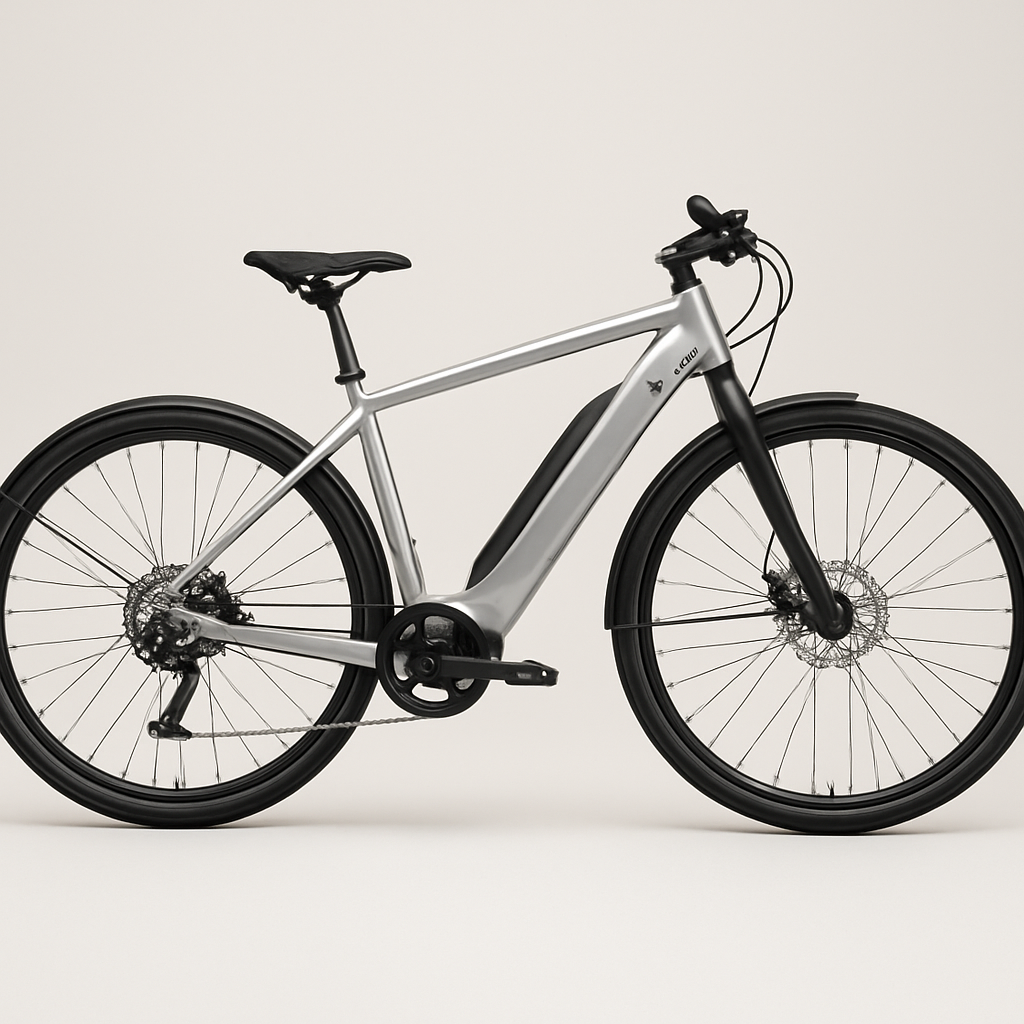
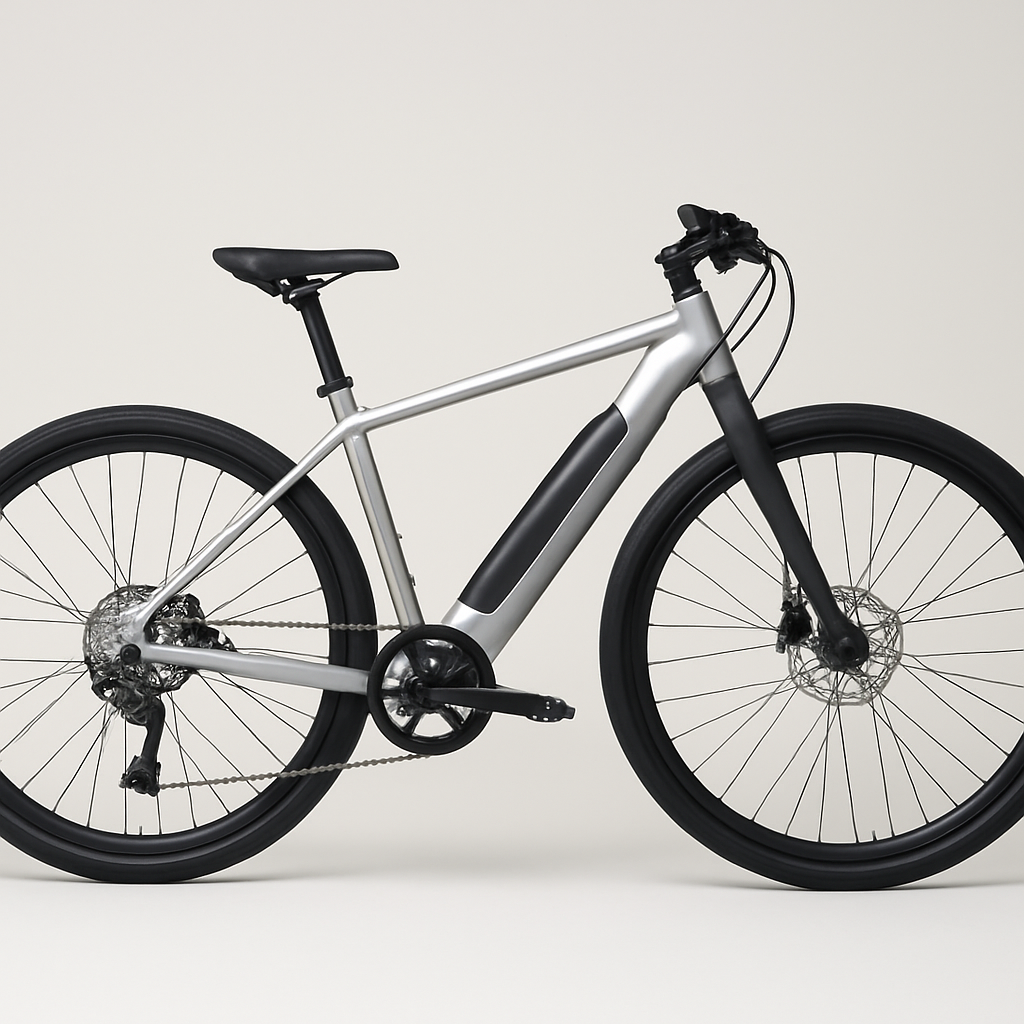
feat: adjust bike card and detail panel dimensions and padding

Changed region(s): [[0.0, 0.1875, 1.0, 0.875]]

diff --git a/components/bike-detail-panel.tsx b/components/bike-detail-panel.tsx
@@ -6,12 +6,12 @@ import { priceFormatter } from '@/lib/content'
 export function BikeDetailPanel({ bike }: { bike: Bike }) {
   return (
     <section className="overflow-hidden rounded-xl border border-border bg-card animate-[fadein_0.2s_ease-in]">
-      <div className="relative aspect-[3/2] bg-muted sm:aspect-[21/9]">
+      <div className="relative aspect-[4/3] bg-muted sm:aspect-[16/9]">
         <Image
           src={bike.image}
           alt={bike.name}
           fill
-          className="object-contain p-6"
+          className="object-contain p-2"
           sizes="(max-width: 768px) 100vw, 896px"
           priority
         />

diff --git a/components/bike-card.tsx b/components/bike-card.tsx
@@ -20,7 +20,7 @@ export function BikeCard({ bike, priority }: BikeCardProps) {
           alt={bike.name}
           width={600}
           height={400}
-          className="h-48 w-full object-contain p-4 transition-transform duration-300 group-hover:scale-105"
+          className="h-64 w-full object-contain p-2 transition-transform duration-300 group-hover:scale-105"
           priority={priority}
         />
       </div>